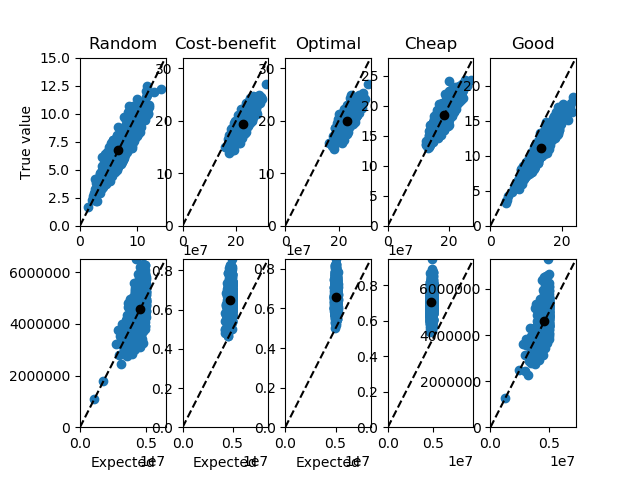
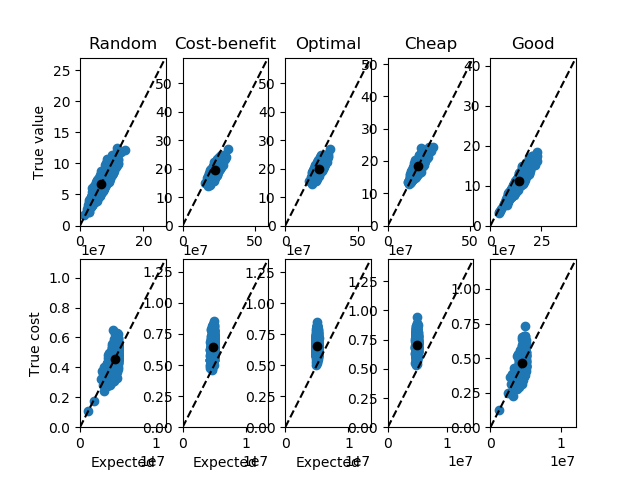
Fixed bug where occasional ensembles had 0 value/cost. Likely arises when random picks an single project that does not fit within the budget, leaving it with 0 choices, 0 value and 0 cost. This leads to issues later on, eg when calculating cost/benefit. Fixed by checking for 0's in the data before i

diff --git a/optimiser_curse_island.py b/optimiser_curse_island.py
@@ -110,9 +110,9 @@ class IslandInvasives:
             current_best_choice = costben_choice
             current_best_value = self.expected_value(current_best_choice)
 
-            #create a of lists, where each list is the list of all islands without one of the chocies from costben
+            # create a of lists, where each list is the list of all islands without one of the choices from costben
             options_list = [set(self.island_list).difference({island}) for island in costben_choice]
-            #also allow the costben choice as a starting option to imporve on
+            # also allow the costben choice as a starting option to improve on
             options_list.append(costben_choice)
 
             for options in options_list:
@@ -121,18 +121,18 @@ class IslandInvasives:
                 current_choice = []
                 flag = 0
                 while flag == 0:
-                    #check current cost and remaining budget
+                    # check current cost and remaining budget
                     current_expenditure = self.expected_cost(current_choice)
                     remaining_funds = self.budget - current_expenditure
                     try:
-                        #choose the best ben/cost island that is still under budget
+                        # choose the best ben/cost island that is still under budget
                         best_option = np.array(ordered_options_worst_to_best)[
                             self.islands[0, ordered_options_worst_to_best] < remaining_funds][-1]
-                        #add to the current_choice list and remove from the list of options
+                        # add to the current_choice list and remove from the list of options
                         current_choice.append(ordered_options_worst_to_best.pop(ordered_options_worst_to_best.index(best_option)))
-                    except IndexError: #index error when none are under budget - exit loop
+                    except IndexError: # index error when none are under budget - exit loop
                         flag = 1
-                expected_value = self.expected_value(current_choice) #calc the expected value
+                expected_value = self.expected_value(current_choice) # calculate the expected value
                 if expected_value > current_best_value: #store if it is better than any other explored options
                     current_best_value = expected_value
                     current_best_choice = copy.copy(current_choice)
@@ -186,7 +186,7 @@ class IslandInvasives:
                 if len(islands_ranked_good) == 0:
                     flag = 1
                 self.good_choice = good_choice
-        return good_choice
+            return good_choice
         return self.good_choice
 
     # The following four functions return the expected/true value/cost of an input list of islands
@@ -388,13 +388,47 @@ class IslandInvasivesEnsemble:
 
     def run_analysis(self):
         if not self.analysis_complete:
-            self.store_costben_result()
-            self.store_optimal_result()
-            self.store_random_result()
-            self.store_cheap_result()
-            self.store_good_result()
-            self.analysis_complete = True
-        return
+            while self.analysis_complete is False:
+                self.store_costben_result()
+                self.store_optimal_result()
+                self.store_random_result()
+                self.store_cheap_result()
+                self.store_good_result()
+                self.analysis_complete, bad_index = self.check_non_zero_data()
+                if self.analysis_complete:
+                    return
+                else:
+                    for index in list(bad_index):
+                        print("Bad index: {}".format(index))
+                        self.ensemble[index] = IslandInvasives(self.num_islands, budget=self.budget,
+                                                               cost_average=self.cost_average,
+                                                               cost_variance=self.cost_variance,
+                                                               value_variance=self.value_variance,
+                                                               estimation_variance=self.estimation_variance)
+                        self.ensemble[index].run_prioritisation()
+
+    # check that all data is non-zero
+    def check_non_zero_data(self):
+        bad_index = set()
+        data_to_check = [self.random_expected_cost, self.random_expected_value,
+                         self.random_true_cost, self.random_true_value,
+                         self.costben_expected_cost, self.costben_expected_value,
+                         self.costben_true_cost, self.costben_true_value,
+                         self.optimal_expected_cost, self.optimal_expected_value,
+                         self.optimal_true_cost, self.optimal_true_value,
+                         self.cheap_expected_cost, self.cheap_expected_value,
+                         self.cheap_true_cost, self.cheap_true_value,
+                         self.good_expected_cost, self.cheap_expected_value,
+                         self.good_true_cost, self.good_true_value]
+        for data in data_to_check:
+            try:
+                bad_index.add(data.index(0))  # store index of each zero
+            except ValueError: # ignore value errors, as these are when the data is non-zero
+                pass
+        if len(bad_index) == 0:
+            return True, bad_index # with empty bad_index, return true
+        else:
+            return False, bad_index # with bad_index non empty, return false, along with the indices
 
     def store_random_result(self):
         random_choices = [realisation.random_choice for realisation in self.ensemble]
